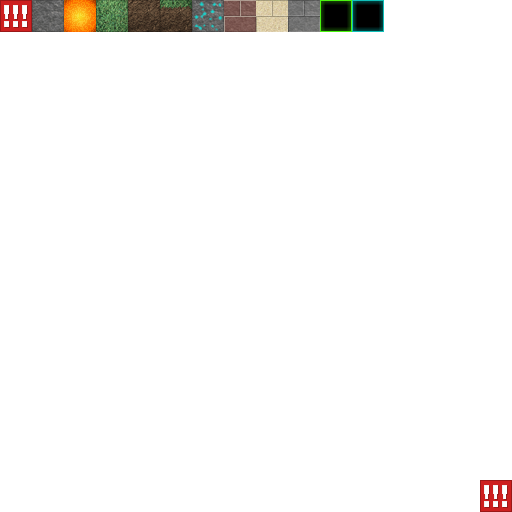
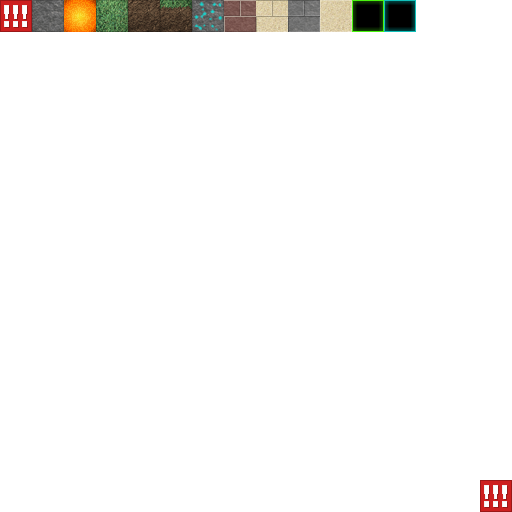
castles

Changed region(s): [[0.625, 0.0, 0.8125, 0.0625]]

diff --git a/server/dats/cube_dat.py b/server/dats/cube_dat.py
@@ -104,6 +104,16 @@ dat = {   0: {   'active': False,
             'solid': True,
             'texture_id': [9, 9, 9, 9, 9, 9],
             'transparent': 0},
+    11: {   'active': True,
+            'gravity': 0,
+            'max_damage': 32,
+            'name': 'sand',
+            'neutron_tolerance': 2,
+            'nuclear': 0,
+            'occludes': True,
+            'solid': True,
+            'texture_id': [10, 10, 10, 10, 10, 10],
+            'transparent': 0},
     100: {   'active': True,
              'gravity': 0,
              'max_damage': 32,
@@ -112,7 +122,7 @@ dat = {   0: {   'active': False,
              'nuclear': 0,
              'occludes': True,
              'solid': True,
-             'texture_id': [10, 10, 10, 10, 10, 10],
+             'texture_id': [11, 11, 11, 11, 11, 11],
              'transparent': 0},
     101: {   'active': True,
              'gravity': 0,
@@ -122,5 +132,5 @@ dat = {   0: {   'active': False,
              'nuclear': 0,
              'occludes': True,
              'solid': True,
-             'texture_id': [11, 11, 11, 11, 11, 11],
+             'texture_id': [12, 12, 12, 12, 12, 12],
              'transparent': 0}}

diff --git a/server/run.py b/server/run.py
@@ -76,7 +76,7 @@ class Main:
 
             #map_gen.castle_wall1(terrain_map, 15,15,0, dx=1,dy=1,dz=0, length=13, height=20)
             #map_gen.castle_wall1(terrain_map, _x, _y, dx,dy,dz, length, height):
-            map_gen.ground_plane(terrain_map, xsize=256, ysize=256)
+            map_gen.ground_plane(terrain_map, xsize=256, ysize=256, tile=11)
             #map_gen.castle_tower1(terrain_map, 15,15,1, height=10, wall_length=10)
             map_gen.castle_tower2(terrain_map, 15,5,1, height=10, wall_length=3, tile=10)
             map_gen.castle_tower2(terrain_map, 30,5,1, height=10, wall_length=5, tile=9)

diff --git a/server/map_gen.py b/server/map_gen.py
@@ -598,7 +598,7 @@ def castle_tower2(tm, _x,_y,_z, height=10, wall_length=3, tile=10):
     x,y,z = _x+2+wall_length,_y+2+wall_length,_z
     castle_column1(tm, x,y,z,height, tile=tile)
 
-def ground_plane(tm, xsize=64, ysize=64, tile=101):
+def ground_plane(tm, xsize=64, ysize=64, tile=100):
     for x in range(0,xsize):
         for y in range(0,ysize):
             tm.set(x,y,0,tile)
